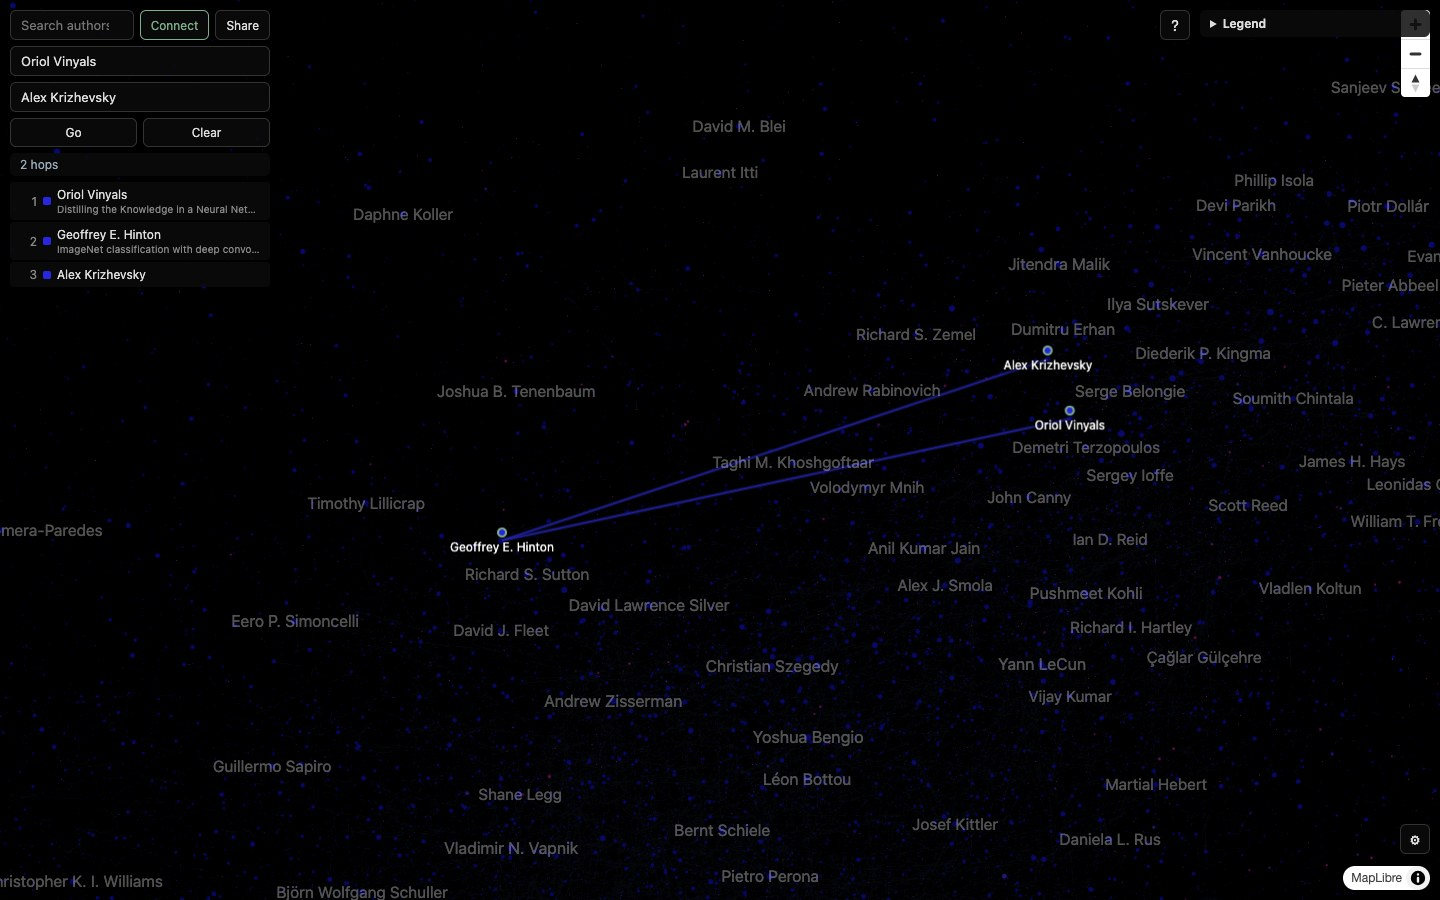
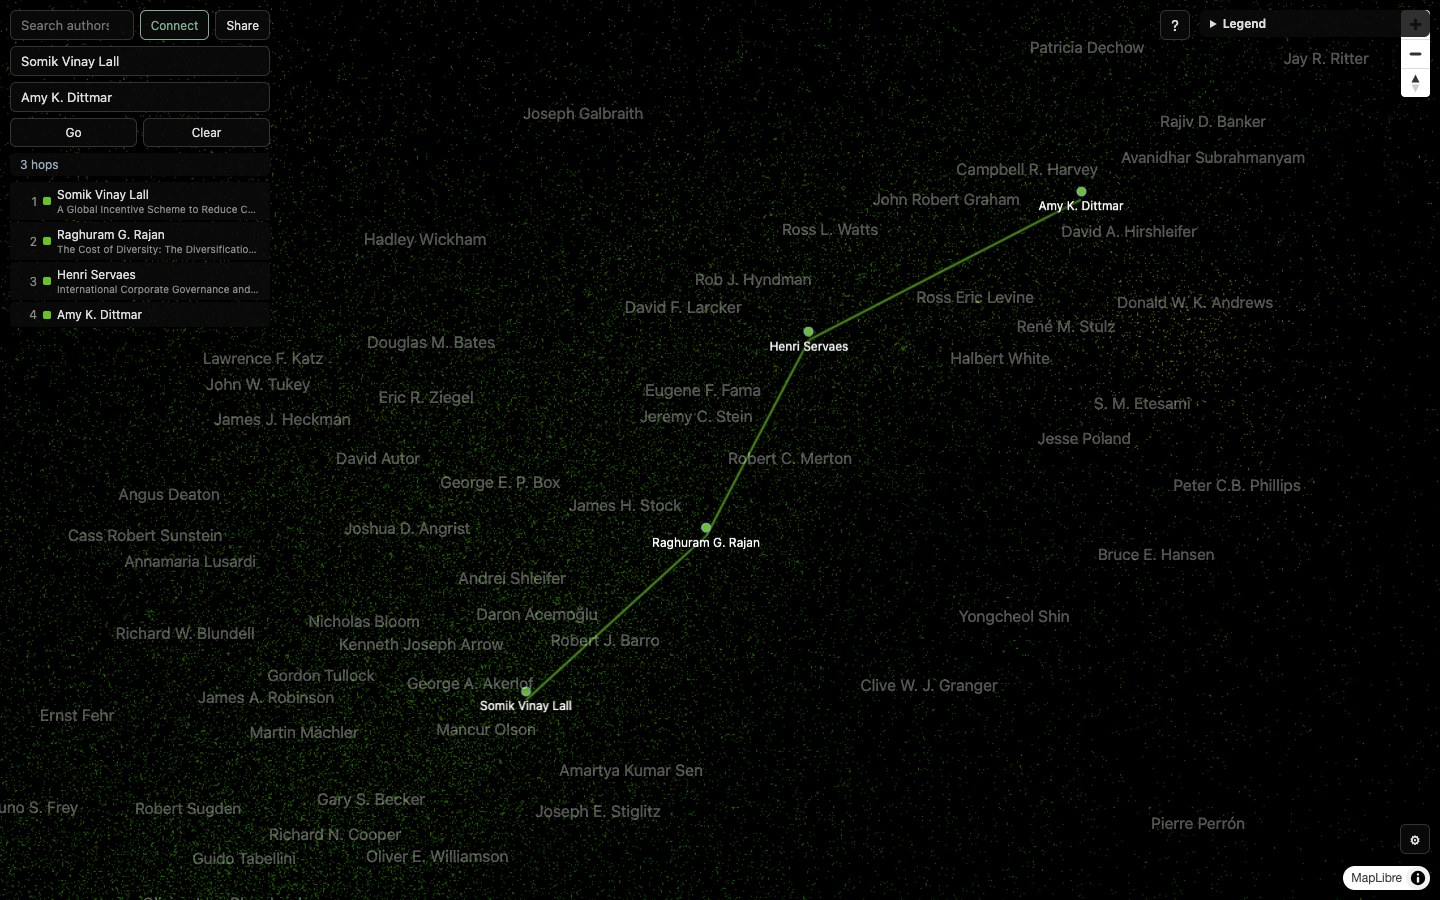
docs: straight-line Connect example in the README
Somik Lall -> Raghuram Rajan -> Henri Servaes -> Amy Dittmar runs in one
direction from the development economists to the corporate-finance
researchers, so the picture explains itself; the Vinyals-Hinton-Krizhevsky
path doubled back. Area names are off in the shot.

diff --git a/README.md b/README.md
@@ -15,11 +15,13 @@ by [riptideiv](https://github.com/riptideiv); see
 
 ![The whole map, without the dust of loosely connected authors: coauthorship communities colored by their position around the map center, each packed into sub-areas, brightness by author density](docs/map.jpg)
 
-![Connect in the deep-learning neighbourhood: Oriol Vinyals to Alex Krizhevsky through Geoffrey Hinton, each step labelled with a paper the two wrote together](docs/connect.jpg)
+![Connect across economics: Somik Lall to Amy Dittmar through Raghuram Rajan and Henri Servaes, in a straight line from development economics to corporate finance, each step labelled with a paper the two wrote together](docs/connect.jpg)
 
-*Connect in the deep-learning neighbourhood: Oriol Vinyals → Geoffrey Hinton
-("Distilling the Knowledge in a Neural Network") → Alex Krizhevsky ("ImageNet
-classification with deep convolutional neural networks").*
+*Connect across economics: Somik Lall → Raghuram Rajan → Henri Servaes → Amy
+Dittmar. Each researcher sits among their own coauthors, so the path walks
+from the development economists (near Acemoglu, Sen and Stiglitz) to the
+corporate-finance researchers (near Fama, Stulz and Harvey), one shared paper
+per step.*
 
 ## Features
 
